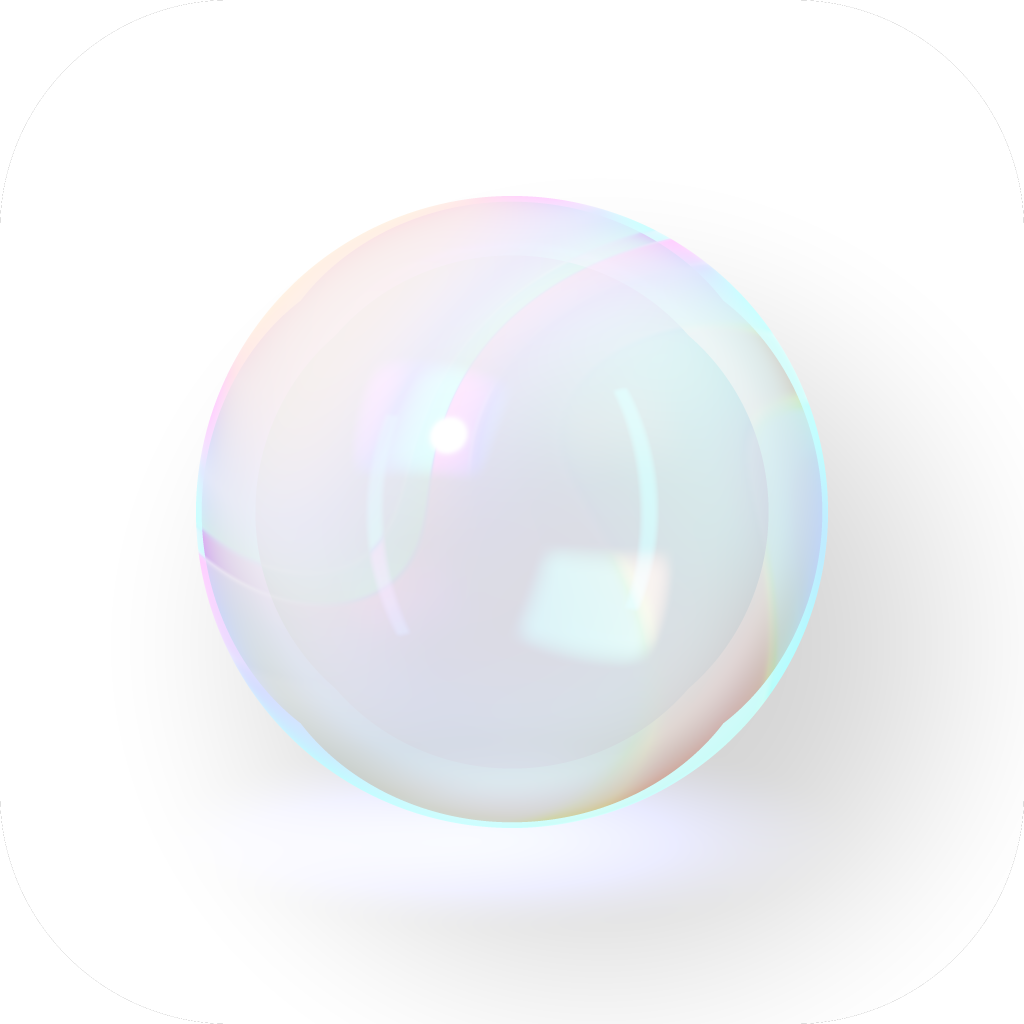
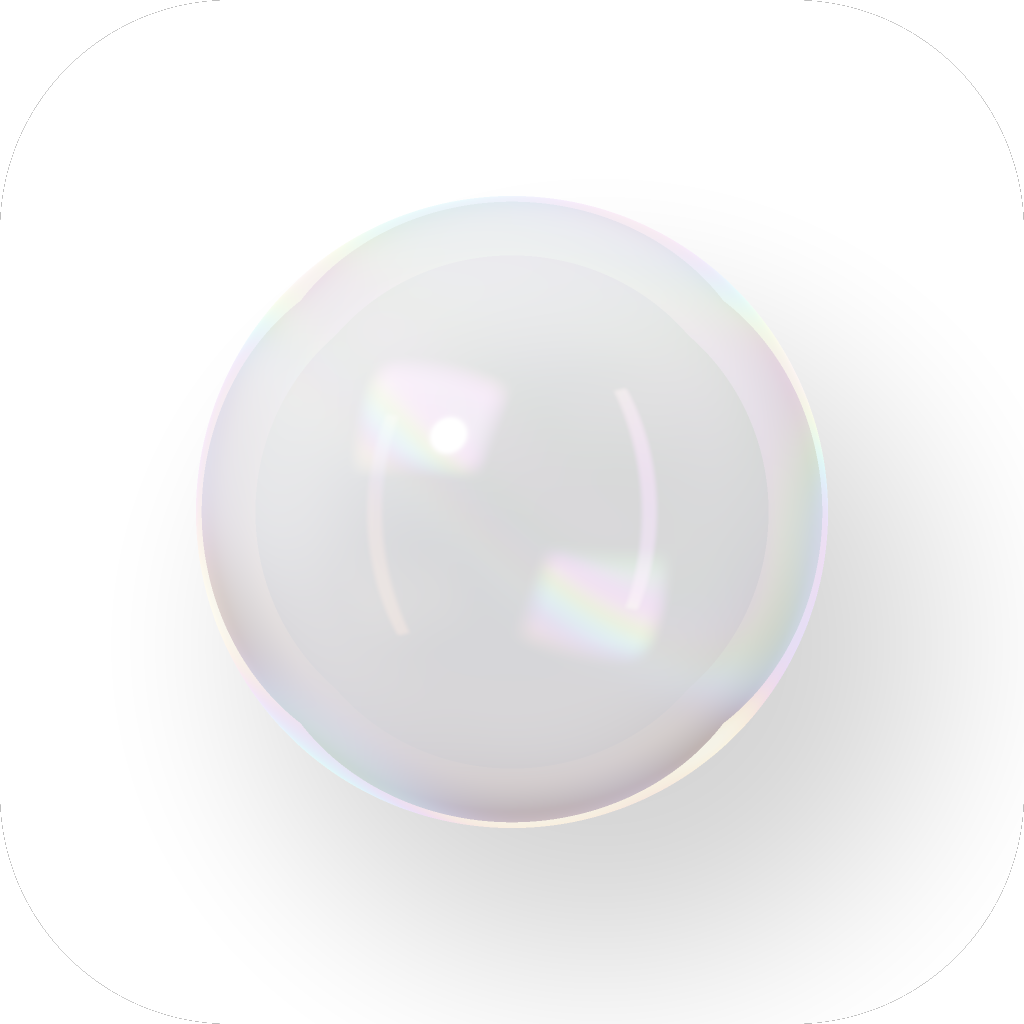
v26 is the mark, light and dark
ORB_MARK_MATERIAL is scene26. The stills under the canvas, the tiles, the
favicon and the Apple icon are exported from the shader at uTime 0 again,
the share card reads the new dark still. The design page's icon row follows
the mark's material instead of naming a version. v26's tile drops the blue
glow as its mark does.

diff --git a/src/components/app/design-ours.tsx b/src/components/app/design-ours.tsx
@@ -25,7 +25,7 @@ import { FlagIcon } from "./flag-icon";
 import { FormError } from "./form-error";
 import { LinkButton } from "./link-button";
 import { OrbGlassTile } from "./orb-glass-tile";
-import { OrbMark } from "./orb-mark";
+import { ORB_MARK_MATERIAL, OrbMark } from "./orb-mark";
 import { RaritySymbol } from "./rarity-symbol";
 import { RowButton } from "./row-button";
 import { LIST_ROW, RowSearch } from "./row-search";
@@ -225,10 +225,10 @@ export const ourSections: SectionSpec[] = [
                 </Group>
                 <Group title="The icon" cols="wide">
                     <Cell label="OrbGlassTile light">
-                        <OrbGlassTile size={120} material="scene20" />
+                        <OrbGlassTile size={120} material={ORB_MARK_MATERIAL} />
                     </Cell>
                     <Cell label="OrbGlassTile dark">
-                        <OrbGlassTile size={120} material="scene20" dark />
+                        <OrbGlassTile size={120} material={ORB_MARK_MATERIAL} dark />
                     </Cell>
                 </Group>
             </Panel>

diff --git a/src/components/app/orb-mark.tsx b/src/components/app/orb-mark.tsx
@@ -14,10 +14,10 @@ type OrbMarkProps = {
     label?: string;
 };
 
-/** The material the mark is: v20 of the live scene on /orb, the owner's pick (2026-09-30). */
-export const ORB_MARK_MATERIAL = "scene20";
+/** The material the mark is: v26 of the live scene on /orb, the owner's pick (2026-10-02; v20 before it). */
+export const ORB_MARK_MATERIAL = "scene26";
 
-// The Card Orb mark: v20 as it stands on /orb under "Soap bubble, live scene", live, with the
+// The Card Orb mark: v26 as it stands on /orb under "Soap bubble, live scene", live, with the
 // tile's face left out (it lay over the title, the owner's call): the same bubble, shadow and glow,
 // on the page, inside the box the size names, so nothing reaches over what stands next to it.
 // Under the canvas sits a still of the same, one per theme, so the server sends a picture and the

diff --git a/src/lib/orb-glass.ts b/src/lib/orb-glass.ts
@@ -261,7 +261,8 @@ vec3 faceS(float x, float y) {
     vec3 col = dark ? vec3(c * 0.985, c * 0.985, c) : vec3(1.0);
     float sh = shadowS(x, y);
     col *= 1.0 - (dark ? 0.1 : 0.32) * sh;
-    float g = glowS(x, y);
+    // scene26 leaves the glow out, on the tile as on the mark: the owner read it as a haze.
+    float g = uMat == 40 ? 0.0 : glowS(x, y);
     col = col * vec3(1.0, 1.0 - 0.1 * g, 1.0) + vec3(0.25, 0.35, 0.6) * g * (dark ? 0.0 : 0.9);
     return col;
 }
